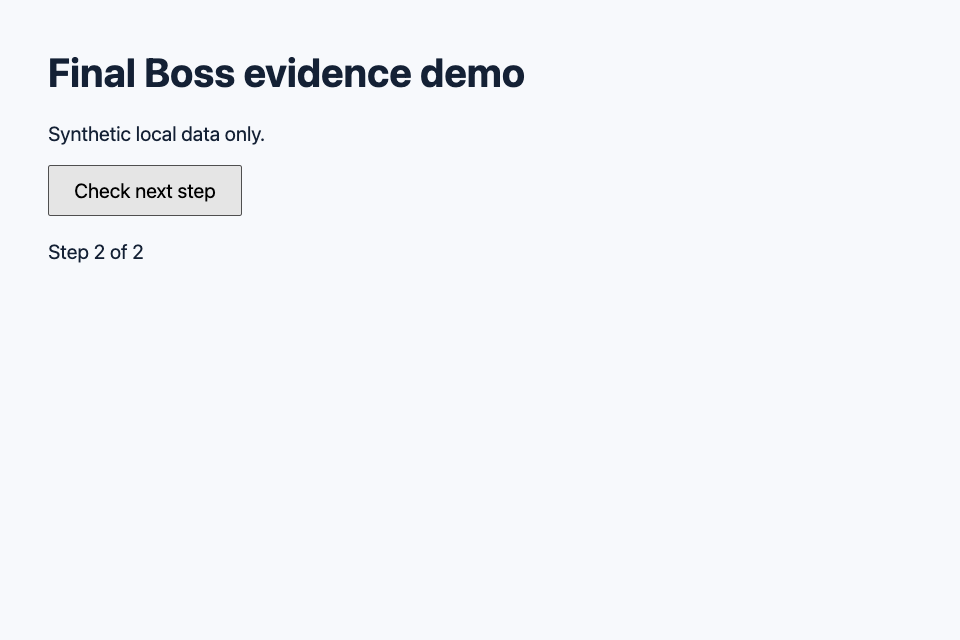
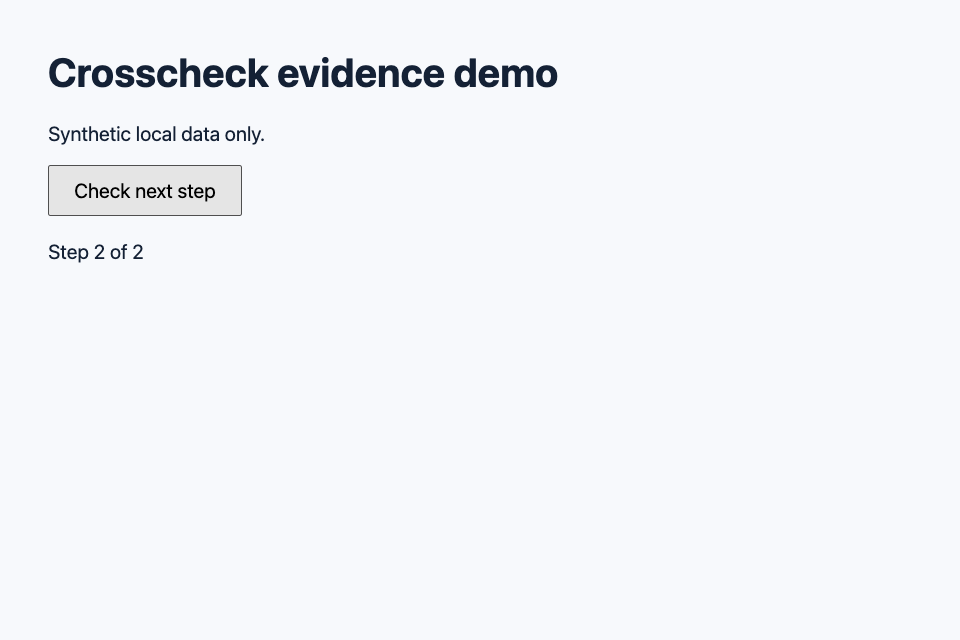
Refresh the Crosscheck demo and bound visual evidence

Changed region(s): [[0.0312, 0.0938, 0.5938, 0.1562]]

diff --git a/examples/evidence/demo.html b/examples/evidence/demo.html
@@ -1,6 +1,6 @@
 <!doctype html>
-<html lang="en"><meta charset="utf-8"><title>Final Boss evidence demo</title>
+<html lang="en"><meta charset="utf-8"><title>Crosscheck evidence demo</title>
 <style>body{font:20px system-ui;margin:48px;background:#f7f9fc;color:#142135}button{padding:12px 24px;font:inherit}output{display:block;margin-top:24px}</style>
-<h1>Final Boss evidence demo</h1><p>Synthetic local data only.</p>
+<h1>Crosscheck evidence demo</h1><p>Synthetic local data only.</p>
 <button type="button" id="advance">Check next step</button><output id="state">Step 0 of 2</output>
 <script>let step=0;document.querySelector("#advance").onclick=()=>{step=Math.min(2,step+1);document.querySelector("#state").textContent=`Step ${step} of 2`;};</script></html>

diff --git a/examples/evidence/qa-report.md b/examples/evidence/qa-report.md
@@ -6,15 +6,15 @@ MODE: deliverable
 
 DECISION_MEANING: Review of this tested workflow; no merge, closure, deployment or mutation authority.
 
-SCOPE: {"base": "synthetic-demo-v1", "configuration_sha256": "0000000000000000000000000000000000000000000000000000000000000000", "environment": "local-synthetic", "kind": "interaction", "locator": "http://127.0.0.1:8765/demo.html", "revision": "7a3419f514da56d5982d5f486ab1c1519653992a446f9226c5bf9ad66e136226"}
+SCOPE: {"base": "synthetic-demo-v1", "configuration_sha256": "0000000000000000000000000000000000000000000000000000000000000000", "environment": "local-synthetic", "kind": "interaction", "locator": "http://127.0.0.1:8765/demo.html", "revision": "a24292d9a877c25306908776204ec3e89d31a872a4414257e67fb04bfed0bea4"}
 
 INTENT: Verify that the synthetic two-step demo shows its final state and preserves the ordered interaction.
 
-INDEPENDENCE: {"attestation": "SIMULATED session admission for contract tests only. Media was captured by the implementation worker; this is not independent QA.", "ephemeral": true, "finished_at": "2026-09-07T00:44:35.223712+00:00", "inherited_context": false, "producer_id": "synthetic-producer", "started_at": "2026-09-07T00:41:58+00:00", "target_write_owned": false, "target_written": false, "verifier_id": "synthetic-verifier"}
+INDEPENDENCE: {"attestation": "SIMULATED session admission for contract tests only. Media was captured by the implementation worker; this is not independent QA.", "ephemeral": true, "finished_at": "2026-09-07T06:01:50.892836+00:00", "inherited_context": false, "producer_id": "synthetic-producer", "started_at": "2026-09-07T06:01:48.816618+00:00", "target_write_owned": false, "target_written": false, "verifier_id": "synthetic-verifier"}
 
-TARGET_FINGERPRINT: f1495fe485c979eeb2bd85961d6af410a1ca7255e2963227e1384931783b7386
+TARGET_FINGERPRINT: 895da7408044a3c67b2228409971c7626fb31152a0b3dd6ddce53f6ad29a1162
 
-EVIDENCE_SNAPSHOT: a6fe49b32f8d6b291ce190539799ed4543f3da96d1b581c971faf3c96bb7484d
+EVIDENCE_SNAPSHOT: d8b618697eea3b73bc3d9322ab0cc65cf7f1551dc305ce86e68c3d5cd5b6cc42
 
 CRITERIA_MATRIX: [{"description": "Two clicks reach Step 2 of 2 in order, with current layout proof.", "id": "demo", "profile": "interaction", "required": true, "sequence": true, "viewports": [{"height": 640, "width": 960}], "visual": true}]
 
@@ -26,7 +26,7 @@ INDEPENDENT_CHECKS: [{"action": "Correct only the failed step and request fresh 
 
 EVIDENCE: [{"artifacts": ["screen", "sequence"], "check": "two-clicks"}]
 
[2 lines of base64/hex data omitted]
 
 SKIPPED_OR_INCONCLUSIVE: []
 
